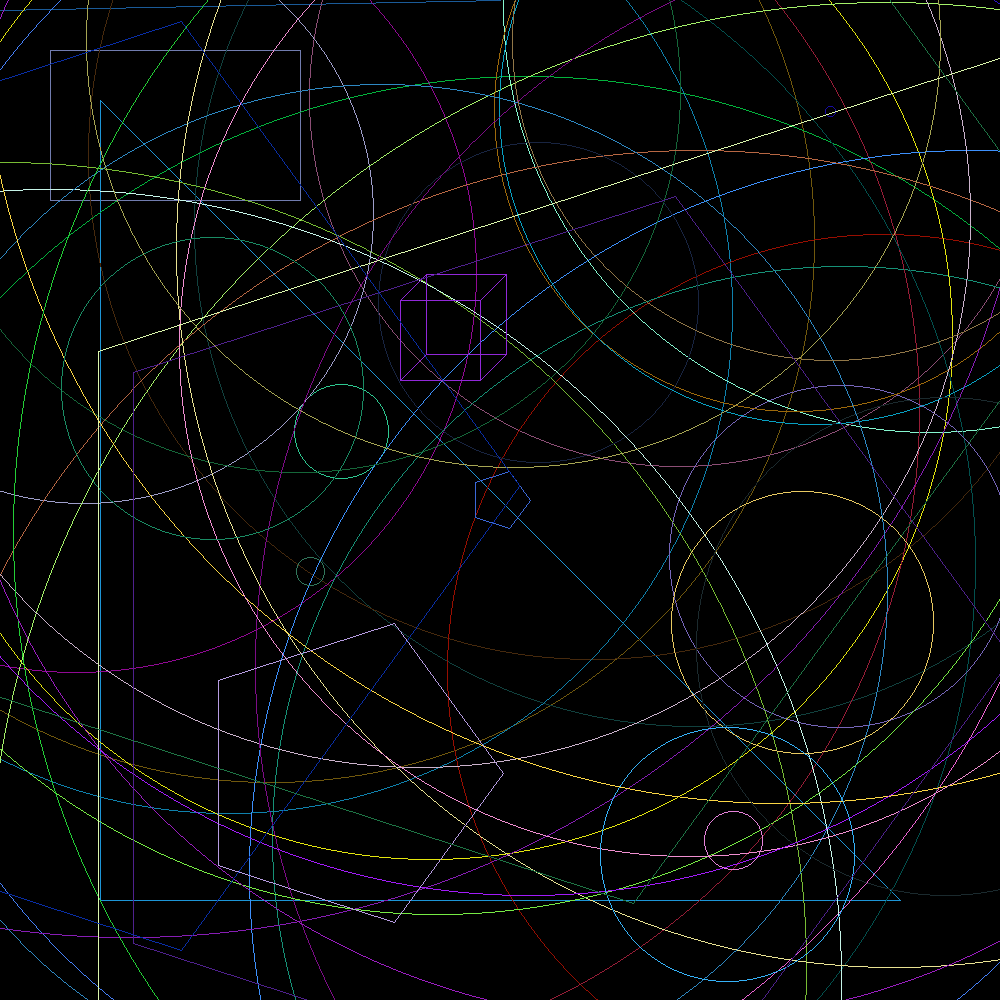
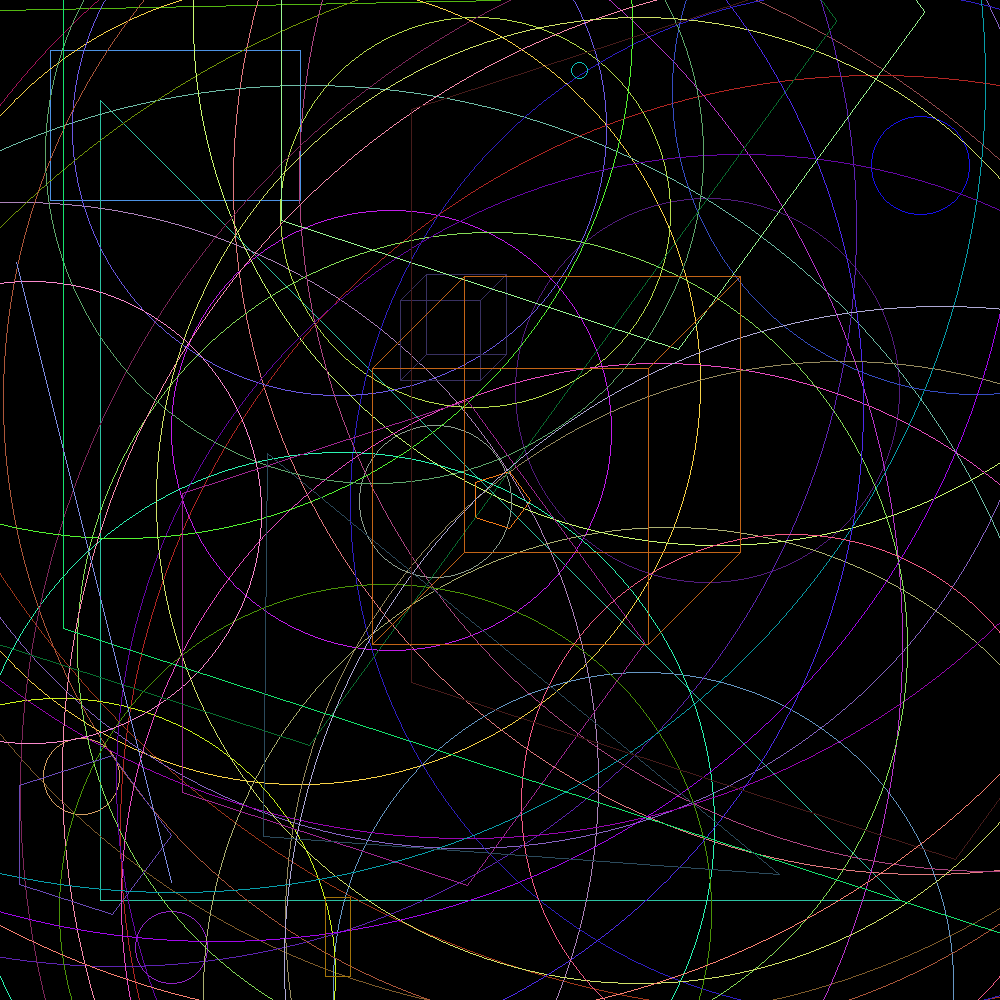
ex

diff --git a/geometrical_shapes/Pentagon.java b/geometrical_shapes/Pentagon.java
@@ -21,21 +21,16 @@ public class Pentagon implements Drawable {
         Color color = getColor();
 
         for (int i = 0; i <= 5; i++) {
-            Point last_point = new Point(last_x,last_y);
-            double angle =  ((double) i * (360.0 / 5.) * Math.PI ) / 180. ;
-            int x = (int) Math.floor(radius * Math.cos(angle) + (double) center.x) ;
-            int y = (int) Math.floor(radius * Math.sin(angle) + (double) center.y) ;
+            Point last_point = new Point(last_x, last_y);
+            double angle = ((double) i * (360.0 / 5.) * Math.PI) / 180.;
+            int x = (int) Math.floor(radius * Math.cos(angle) + (double) center.x);
+            int y = (int) Math.floor(radius * Math.sin(angle) + (double) center.y);
             last_x = x;
             last_y = y;
-            Point next_point = new Point(x,y);
+            Point next_point = new Point(x, y);
             Line line = new Line(last_point, next_point);
             line.color = color;
             line.draw(image);
         }
-    }
-
-    @Override
-    public Color getColor() {
-        return new Color((int) (Math.random() * 255), (int) (Math.random() * 255), (int) (Math.random() * 255));
     }
 }

diff --git a/Main.java b/Main.java
@@ -37,6 +37,21 @@ public class Main {
             Pentagon pen = Pentagon.random(image.getWidth(), image.getHeight());
             pen.draw(image);
         }
+
+        Drawable[] arr = new Drawable[] {
+                Point.random(image.getWidth(), image.getHeight()),
+                Line.random(image.getWidth(), image.getHeight()),
+                Triangle.random(image.getWidth(), image.getHeight()),
+                Circle.random(image.getWidth(), image.getHeight()),
+                Rectangle.random(image.getWidth(), image.getHeight()),
+                Pentagon.random(image.getWidth(), image.getHeight()),
+                Cube.random(image.getWidth(), image.getHeight()),
+        };
+
+        for (Drawable shape : arr) {
+            shape.draw(image);
+        }
+
         image.save("image.png");
     }
 }

diff --git a/geometrical_shapes/Point.java b/geometrical_shapes/Point.java
@@ -1,4 +1,3 @@
-import java.awt.Color;
 
 public class Point implements Drawable {
     int x;
@@ -12,11 +11,6 @@ public class Point implements Drawable {
     @Override
     public void draw(Displayable image) {
         image.display(x, y, getColor());
-    }
-
-    @Override
-    public Color getColor() {
-        return new Color((int) (Math.random() * 255), (int) (Math.random() * 255), (int) (Math.random() * 255));
     }
 
     public static Point random(int width, int height) {

diff --git a/geometrical_shapes/Triangle.java b/geometrical_shapes/Triangle.java
@@ -27,8 +27,7 @@ public class Triangle implements Drawable {
         line3.draw(image);
     }
 
-    @Override
-    public Color getColor() {
-        return new Color((int) (Math.random() * 255), (int) (Math.random() * 255), (int) (Math.random() * 255));
+    public static Triangle random(int width, int height) {
+        return new Triangle(Point.random(width, height), Point.random(width, height), Point.random(width, height));
     }
 }

diff --git a/geometrical_shapes/Rectangle.java b/geometrical_shapes/Rectangle.java
@@ -33,8 +33,7 @@ public class Rectangle implements Drawable {
         line4.draw(image);
     }
 
-    @Override
-    public Color getColor() {
-        return new Color((int) (Math.random() * 255), (int) (Math.random() * 255), (int) (Math.random() * 255));
+    public static Rectangle random(int width, int height) {
+        return new Rectangle(Point.random(width, height), Point.random(width, height));
     }
 }

diff --git a/geometrical_shapes/Line.java b/geometrical_shapes/Line.java
@@ -30,11 +30,6 @@ public class Line implements Drawable {
         }
     }
 
-    @Override
-    public Color getColor() {
-        return new Color((int) (Math.random() * 255), (int) (Math.random() * 255), (int) (Math.random() * 255));
-    }
-
     public static Line random(int width, int height) {
         return new Line(Point.random(width, height), Point.random(width, height));
     }

diff --git a/geometrical_shapes/Drawable.java b/geometrical_shapes/Drawable.java
@@ -3,5 +3,7 @@ import java.awt.Color;
 public interface Drawable {
     void draw(Displayable displayable);
 
-    Color getColor();
+    default Color getColor() {
+        return new Color((int) (Math.random() * 255), (int) (Math.random() * 255), (int) (Math.random() * 255));
+    };
 }

diff --git a/geometrical_shapes/Circle.java b/geometrical_shapes/Circle.java
@@ -54,8 +54,4 @@ public class Circle implements Drawable {
         }
     }
 
-    @Override
-    public Color getColor() {
-        return new Color((int) (Math.random() * 255), (int) (Math.random() * 255), (int) (Math.random() * 255));
-    }
 }
